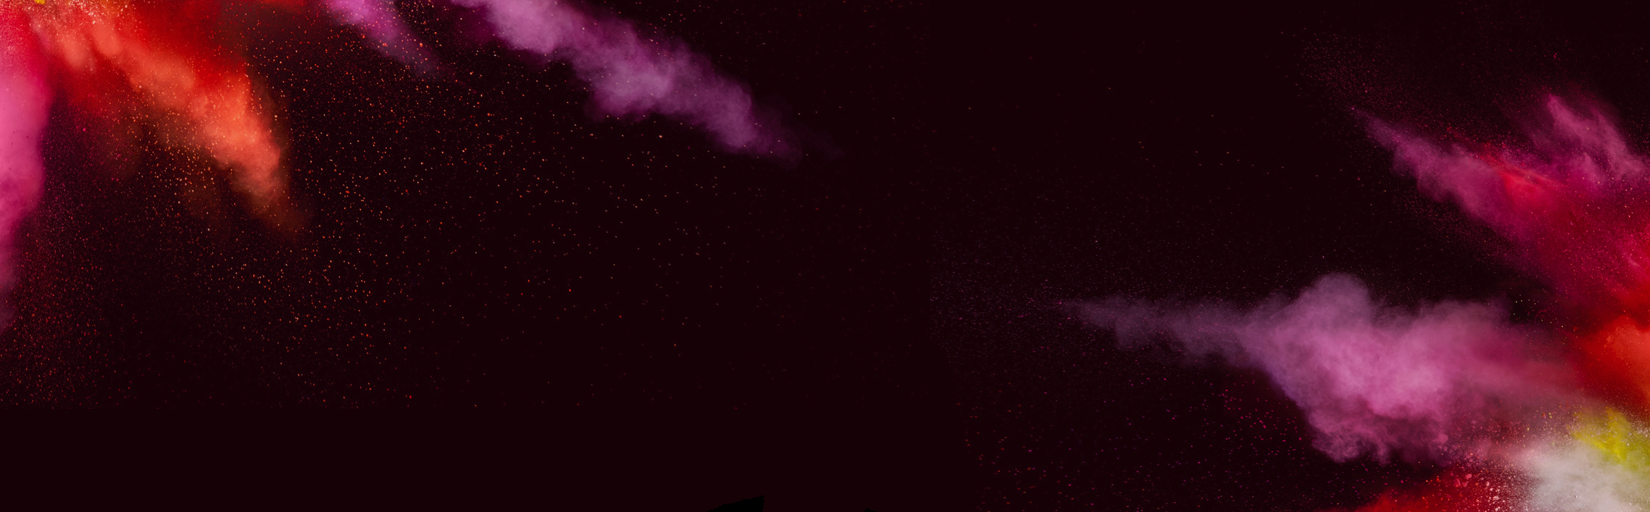
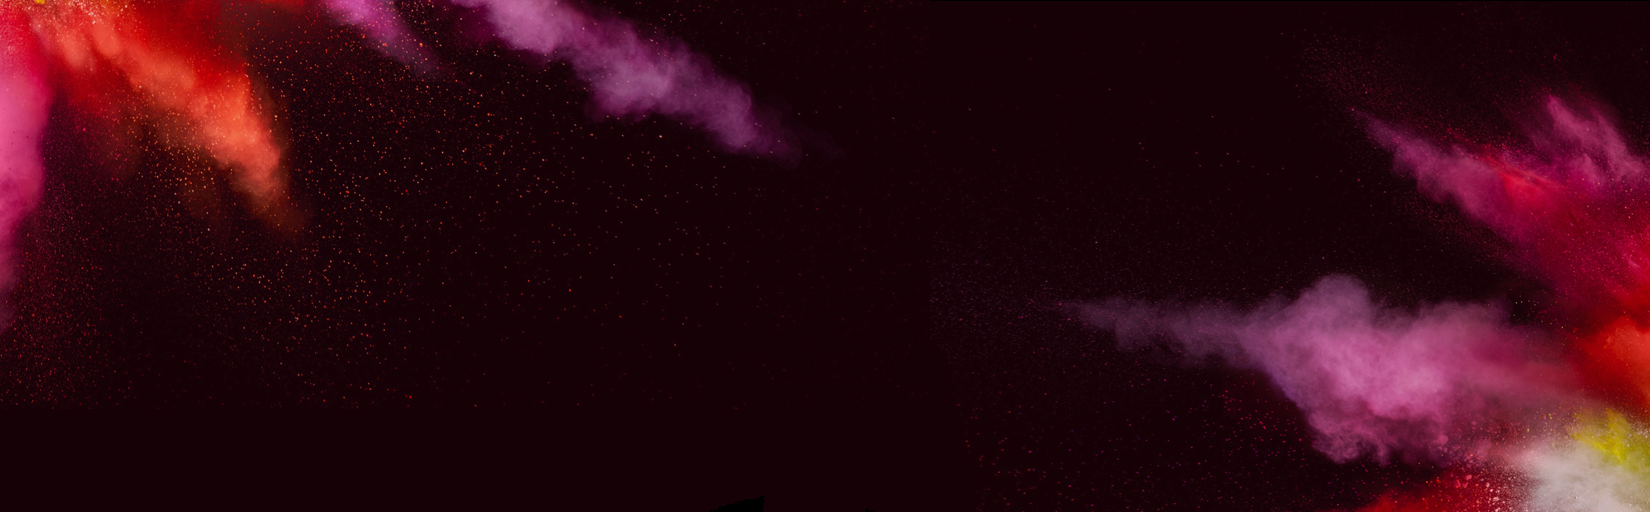
optimize

Changed region(s): [[0.8655, 0.9062, 0.9273, 1.0], [0.9582, 0.8125, 1.0, 0.875], [0.9891, 0.4375, 1.0, 0.4688]]

diff --git a/projects/VINSTE/index.html b/projects/VINSTE/index.html
@@ -26,7 +26,7 @@
       Тег <header> с классом .header--account - шапка в личном кабинете (вместе с этим классом скрывается кнопка "Войти", если этого не нужно делать, то надо удалить стиль на 250 строчке в css/styles.css) 
     -->
 
-    <header class="header--index">
+    <header>
       <div class="header__inner">
         <img class="header__menu" src="img/icons/header-menu.svg" alt="menu">
         <a href="" class="header__logo">

diff --git a/projects/VINSTE/css/styles.css b/projects/VINSTE/css/styles.css
@@ -101,7 +101,7 @@ header {
   background-color: #000;
   background-image: url('../img/header-bg.png');
   background-repeat: no-repeat;
-  background-position: center top;
+  background-size: cover;
 }
 
 .header__inner {
